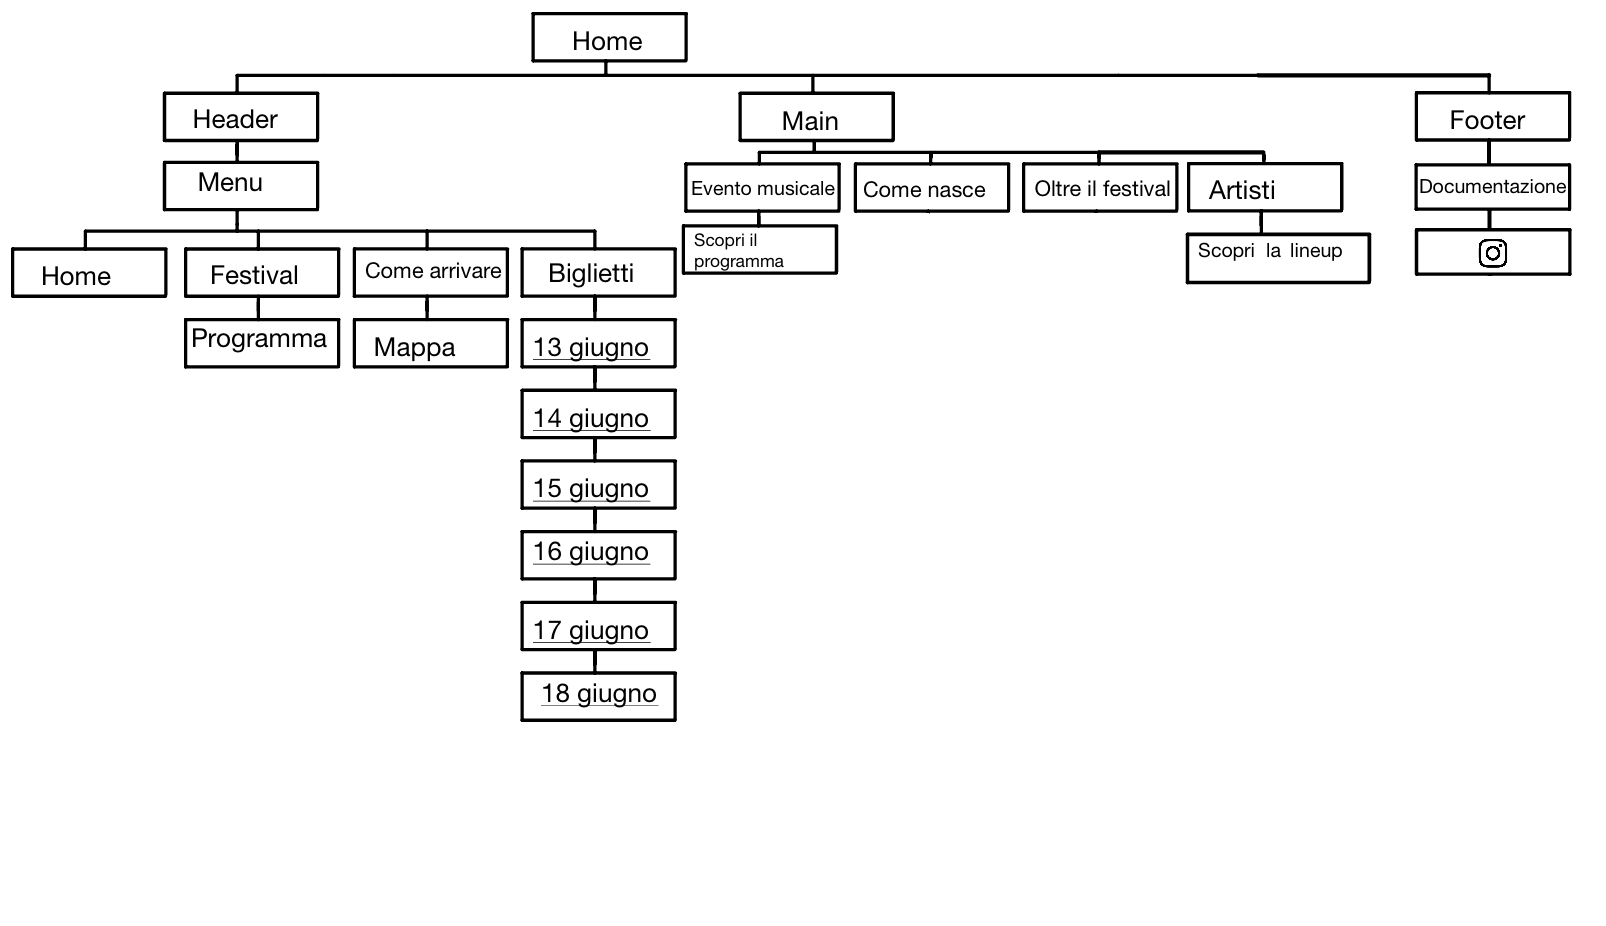
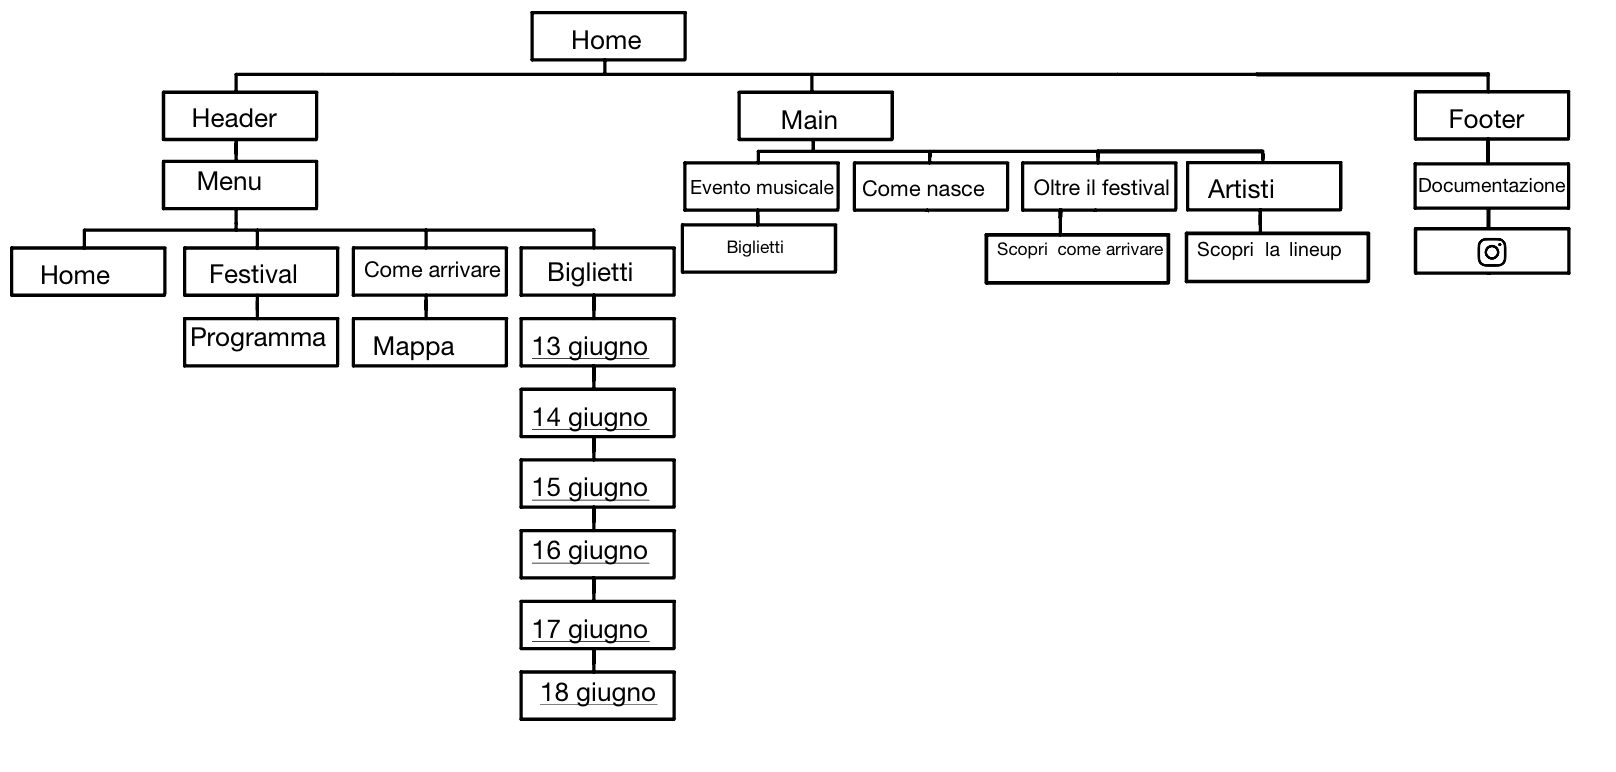
Modifica Documentazione

Changed region(s): [[0.0, 0.0, 0.9963, 0.9326]]

diff --git a/Documentazione.html b/Documentazione.html
@@ -39,13 +39,14 @@
             <img src="img/Logo3.png" alt="">
         </a>
      </div>
+     <nav>
      <ul class="menu">
         <li><a href="index.html">Home</a></li>
         <li><a href="Festival.html">Festival</a></li>
         <li><a href="Come arrivare.html">Come arrivare</a></li>
         <li><a href="Biglietti.html">Biglietti</a></li>
      </ul>
-     
+     </nav>
                 
      
      <div class="hamburger"></div>
@@ -69,7 +70,7 @@
 
  <div class="content">
     <h3 class="big-text">Abstract:</h3>
-    <p>Il sito PLUS MUSIC FESTIVAL si pone l’obiettivo di fare conoscere e promuovere il festival omonimo consentendone un'ampia visibilità tra i possibili fruitori (giovani 16-30 anni) messi in grado di apprendere e valutare le caratteristiche della manifestazione, i relativi contenuti e le peculiari caratteristiche e di indurre gli interlocutori a partecipare all’evento musicale. Il sito mira alla completezza dell'informazione sia sui contenuti della manifestazione, sia sull’aspetto logistico fornendo il link diretto per l’acquisto dei biglietti e le informazioni utili alla immediata pianificazione dell’accesso mediante precisa indicazione dei giorni dedicati e del luogo di svolgimento.
+    <p>Il sito PLUS MUSIC FESTIVAL si pone l’obiettivo di fare conoscere e promuovere il festival omonimo consentendone un'ampia visibilità tra i possibili fruitori (giovani 16-30 anni) messi in grado di apprendere e valutare le caratteristiche della manifestazione, i relativi contenuti e le peculiari tipicità e di indurre gli interlocutori a partecipare all’evento musicale. Il sito mira alla completezza dell'informazione sia sui contenuti della manifestazione, sia sull’aspetto logistico fornendo il link diretto per l’acquisto dei biglietti e le informazioni utili alla immediata pianificazione dell’accesso mediante precisa indicazione dei giorni dedicati e del luogo di svolgimento.
     </p>
 
 
@@ -92,13 +93,13 @@
         <h2>Struttura ad Albero:</h2>
           <img src="img/Struttura Albero.PNG" alt="Image 1">
           <p class="image-description">Nella figura è riprodotta la rappresentazione grafica dell’architettura del sito. La Home è suddivisa in header, main e footer. Da header si accede al menu che è a sua volta suddiviso in “Home”, “Festival”, “Come arrivare”, “Biglietti”. La pagina “Festival” dà accesso diretto al programma e alla lineup dell’evento, mentre la pagina “Come arrivare” da accesso alla mappa. La pagina “Biglietti” è in collegamento con i link di acquisto ai biglietti per le singole giornate della manifestazione.
-            Nella pagina main sono contenute sezioni esplicative di singoli aspetti del festival quali: “Evento musicale”, “Come nasce”, “Oltre il festival” e “Artisti”. Nella sezione “Evento musicale” e “Artisti” è presente un bottone con un link alla pagina “Festival”. Infine, nel footer, si trova la documentazione e il link all’account Instagram.</p>
+            Nella pagina main sono contenute sezioni esplicative di singoli aspetti del festival quali: “Evento musicale”, “Come nasce”, “Oltre il festival” e “Artisti”. Nella sezione “Evento musicale” è presente un bottone con un link alla pagina "Biglietti", nella sezione "Oltre il festival" si trova un bottone collegato alla pagina "Come arrivare", nella sezione "Artisti" è contenuto un bottone che riporta al programma e alla lineup del festival. Infine, nel footer, si trova la documentazione e il link all’account Instagram.</p>
         </div>
 
     <div class="image-gallery">
             <div class="image-container">
-            <h2>Wireframe:</h2>
-              <img src="img/wireframe home.PNG" alt="">
+            <h2>Wireframe "Home"</h2>
+              <img src="img/Wireframe home.PNG" alt="">
             </div>
 
     <div class="image-gallery">
@@ -130,18 +131,11 @@
 
 
 
-
-
-        
-
-          
+                  
          
-
-          
-
-          <h3 class="normal-text">Look and Feel:</h3>
+              <h3 class="normal-text">Look and Feel:</h3>
            <p>Le scelte grafiche fatte per la realizzazione del sito hanno privilegiato uno stile semplice ed elegante, composto da pochi elementi ben disposti per agevolare la fruizione delle informazioni da parte degli utenti.<br>
-        La font utilizzata per tutta la pagina web è: “Inter” che, grazie alla sua leggibilità e alle sue proporzioni equilibrate, risulta essere ottimale per un sito moderno relativo a un festival musicale. Nei titoli e nei paragrafi è stata alternata la font nelle colorazioni bianca e nera a seconda della necessità.  
+        La font utilizzata per tutta la pagina web è: “Inter” che, grazie alla sua leggibilità e alle sue proporzioni equilibrate, risulta essere ottimale per un sito moderno relativo a un festival musicale. Nei titoli e nei paragrafi è stata alternata la font nelle colorazioni bianca, nera e grigia (#666) a seconda della necessità.  
         La palette di colori impiegata, in armonia con le immagini scelte, è essenzialmente composta da tre diverse shade ricorrenti nell’intero sito: nero #000, viola-magenta #811d7a, bianco #fff.
         Lo sfondo bianco del sito permette di mettere in risalto gli elementi inseriti rendendo la pagina ben organizzata e luminosa. 
         </p>
@@ -166,7 +160,7 @@
     - Font Awesome, per l'icona di Instagram;<br>
     - Github.com, per la pubblicazione del sito sul web;<br>
     - Google Analytics, per il controllo e la valutazione dell'andamento del sito;<br>
-    -Font Awesome, per l'icona di Instagram;<br>- Instagram e WhatsApp, per la promozione del sito.</p>
+    - Instagram e WhatsApp, per la promozione del sito.</p>
 
          <h3 class="big-text">Communication Strategy:</h3>
          <h3 class="normal-text">Background:</h3>
@@ -175,25 +169,22 @@
           <p>Gli obiettivi comunicativi, in correlazione con le scelte sopra esplicitate, sono quelli di informare, attrarre e indurre all’acquisto il visitatore del sito e di creare tramite il passaparola una estesa visibilità sulla manifestazione attirando un cospicuo numero di giovani nelle serate programmate ed una connessa attesa rispetto all’evento.<br>
     L’obiettivo è il raggiungimento di 100 visualizzazioni del sito.</p>
          <h3 class="normal-text">Target audience e messaggio:</h3>
-           <p>Il target d’elezione è quello dei giovani dai 16 ai 30 anni, maggiori fruitori della tipologia di musica proposta,  per il quale i migliori mezzi comunicativi sono quelli legati ai social (Instagram, TikTok, Twitter, Facebook, WhatsApp), oltre a sponsorizzazioni sui social.<br> L’utente secondario è ogni appassionato di musica interessato ai generi proposti a prescindere dall’età.</p>
+           <p>Il target d’elezione è quello dei giovani dai 16 ai 30 anni, maggiori fruitori della tipologia di musica proposta,  per il quale i migliori mezzi comunicativi sono quelli legati ai social (Instagram, TikTok, Twitter, Facebook, WhatsApp). <br> L’utente secondario è ogni appassionato di musica interessato ai generi proposti a prescindere dall’età.<br> Il sito trasmette il messaggio che è stato programmato un evento musicale ricco e attrattivo a cui vale la pena di partecipare.</p>
          <h3 class="normal-text">Promozione:</h3>
-          <p>Intendo promuovere il sito web attraverso storie su Instagram e gruppi di WhatsApp</p>
+          <p>Intendo promuovere il sito web attraverso storie su Instagram e messaggi su gruppi WhatsApp</p>
          <div class="image-gallery">
          <div class="image-container">
-         <h2>Titolo:</h2>
-           <img src="" alt="Image 1">
-           <p class="image-description">Descrizione dell'immagine 1</p>
+           <img src="img/Promozione.PNG" alt="Image 1">
+           <p class="image-description">Storia Instagram + messaggio inviato sui gruppi WhatsApp</p>
           </div>
          <h3 class="normal-text">Valutazione dei risultati:</h3>
            <p></p>
        <div class="image-gallery">
     <div class="image-container">
-    <h2>Titolo:</h2>
-      <img src="" alt="Image 1">
-      <p class="image-description">Descrizione dell'immagine 1</p>
+      <img src="img/Valutazione.PNG" alt="Image 1">
+      <p>Gli obiettivi preventivati di comunicazione sono stati raggiunti. Come desumibile dai dati raccolti a mezzo di Google Analytics sopra riportati, il sito ha ottenuto 139 utenti con 583 visualizzazioni totali in circa 60 ore di tempo dalla pubblicazione.
+    </p>
     </div>
-   <h3 class="normal-text">Valutazione dei risultati:</h3>
-   <p></p>
    <div class="container">    
  
 

diff --git a/Biglietti.html b/Biglietti.html
@@ -39,13 +39,15 @@
         <a href="index.html">
             <img src="img/Logo3.png" alt="">
         </a>
-     </div>
+         </div>
+      <nav>
      <ul class="menu">
         <li><a href="index.html">Home</a></li>
         <li><a href="Festival.html">Festival</a></li>
         <li><a href="Come arrivare.html">Come arrivare</a></li>
         <li><a href="Biglietti.html">Biglietti</a></li>
      </ul>
+    </nav>
 
      
 

diff --git a/style.css b/style.css
@@ -272,7 +272,7 @@ p{line-height: 28px; color: #666; font-weight: 300;}
     .buy-button {width: 100%;}
  }
 
-/* prova */
+/* Testo */
 
 .content h3 {
     text-align: center;
@@ -313,7 +313,7 @@ a {
 
 
 
-/* Footer */
+/* ! Footer */
 
 .footer{
     background: #000000;
@@ -358,7 +358,7 @@ a {
 
 
 
-/* prova immagini di fianco */
+/* Immagini documentazione */
 .container {
     text-align: center;
   }

diff --git a/index.html b/index.html
@@ -45,13 +45,14 @@
         <img src="img/Logo3.png" alt="">
     </a>
      </div>
+     <nav>
      <ul class="menu">
         <li><a href="index.html">Home</a></li>
         <li><a href="Festival.html">Festival</a></li>
         <li><a href="Come arrivare.html">Come arrivare</a></li>
         <li><a href="Biglietti.html">Biglietti</a></li>
      </ul>
-     
+     </nav>
     
      
          

diff --git a/Come arrivare.html b/Come arrivare.html
@@ -39,12 +39,14 @@
             <img src="img/Logo3.png" alt="">
         </a>
      </div>
+     <nav>
      <ul class="menu">
         <li><a href="index.html">Home</a></li>
         <li><a href="Festival.html">Festival</a></li>
         <li><a href="Come arrivare.html">Come arrivare</a></li>
         <li><a href="Biglietti.html">Biglietti</a></li>
      </ul>
+    </nav>
 
      
 

diff --git a/Festival.html b/Festival.html
@@ -39,12 +39,14 @@
             <img src="img/Logo3.png" alt="">
         </a>
      </div>
+     <nav>
      <ul class="menu">
         <li><a href="index.html">Home</a></li>
         <li><a href="Festival.html">Festival</a></li>
         <li><a href="Come arrivare.html">Come arrivare</a></li>
         <li><a href="Biglietti.html">Biglietti</a></li>
      </ul>
+    </nav>
 
      
 
